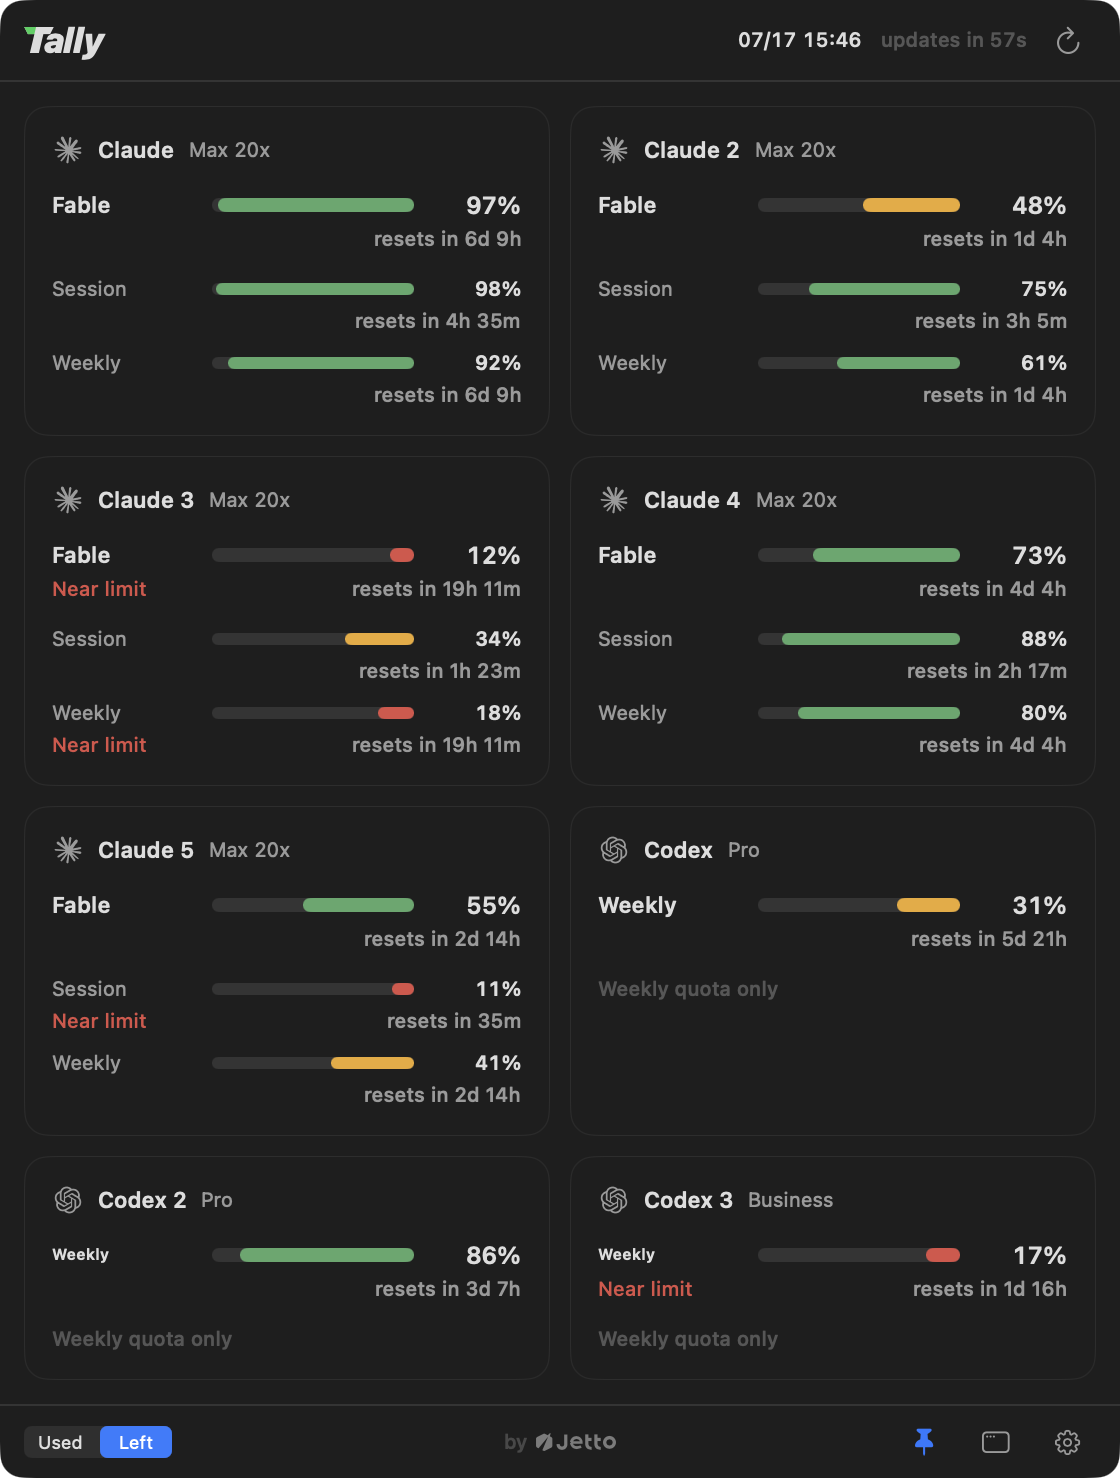
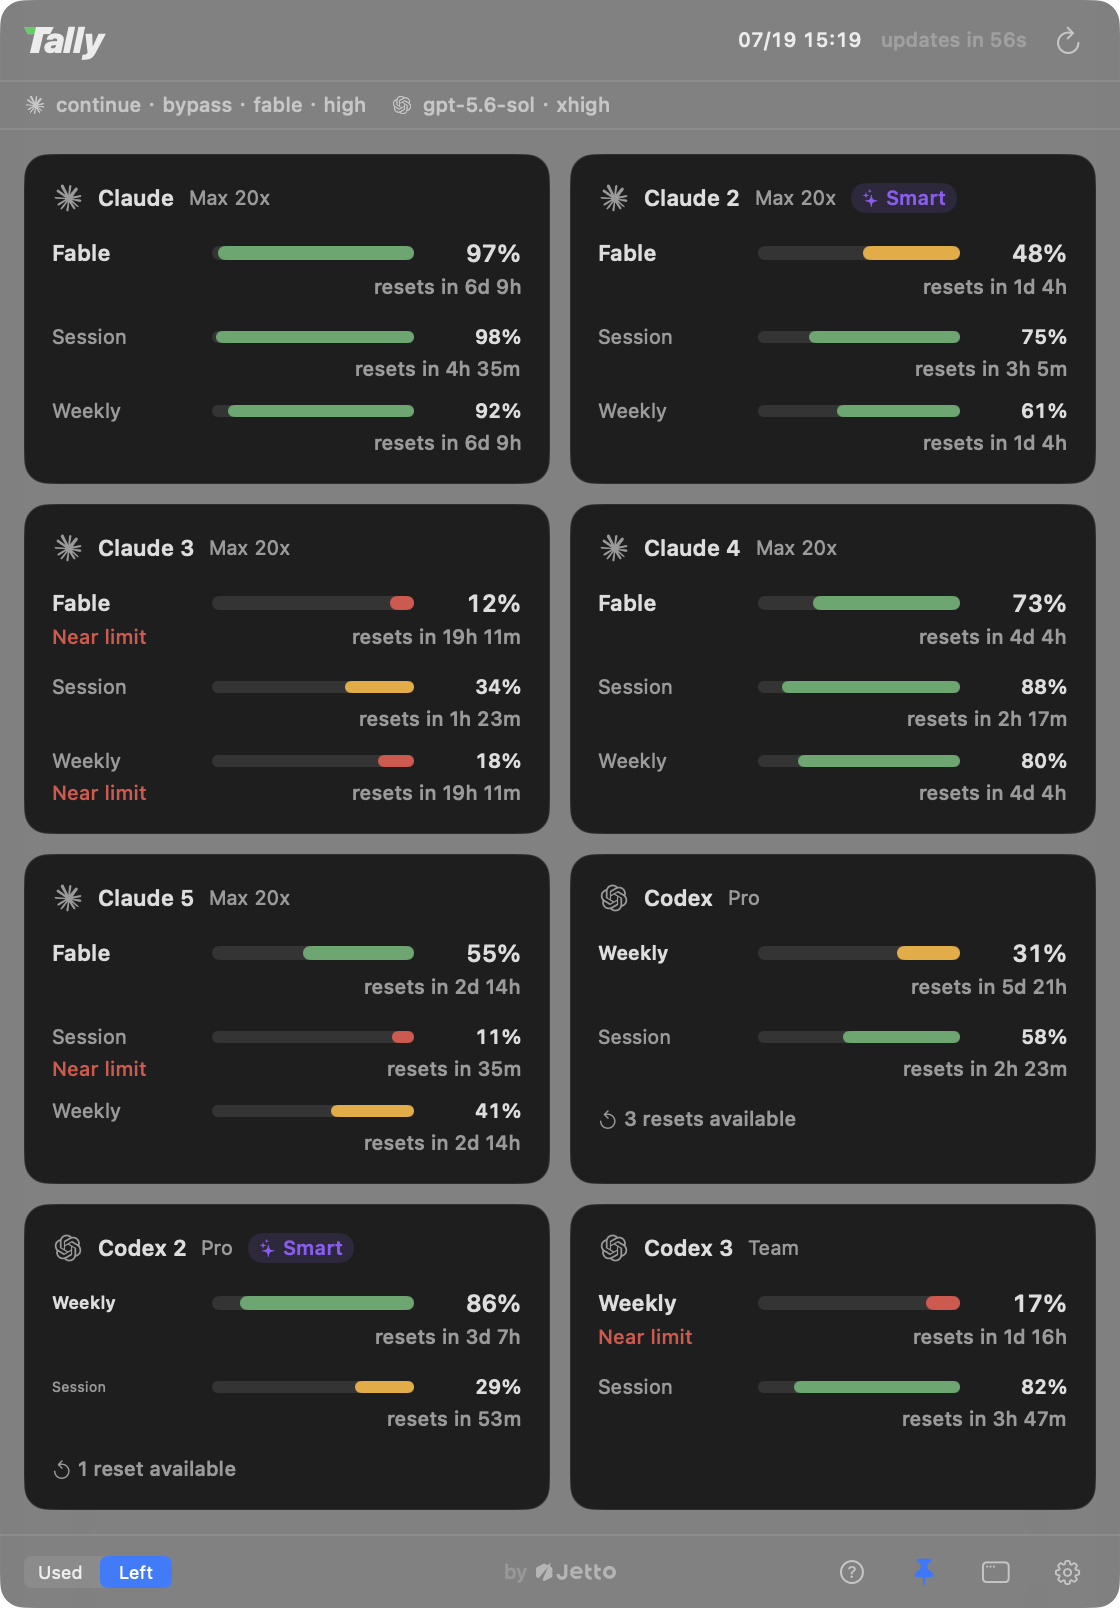
feat(codex): banked rate-limit resets on the card; richer demo; aligned toggle order
Codex reset banking (live-verified 2026-07-19): the app-server response
carries rateLimitResetCredits.availableCount, now read and shown on the
card ('3 resets available') so the escape hatches are visible before the
wall - read-only by design, redeeming stays the user's call in the
official CLI. Demo fixtures gain the codex 5h session window (real plan
shape; the window is temporarily removed server-side since 2026-07-12),
banked resets, and the corrected Team plan name; the demo now lights the
Smart badge (real pinned ids can never match fixtures) and the badge
label tightens to the mode word. The Settings meter toggle adopts the
panel footer's Used-before-Left order. New panel screenshot.

diff --git a/Tally/Core/DemoUsage.swift b/Tally/Core/DemoUsage.swift
@@ -23,9 +23,12 @@ enum DemoUsage {
                    modelResetDays: 4.2, sessionResetHours: 2.3, weeklyResetDays: 4.2, now: now),
             claude("Claude 5", plan: "Max 20x", model: 45, session: 89, weekly: 59,
                    modelResetDays: 2.6, sessionResetHours: 0.6, weeklyResetDays: 2.6, now: now),
-            codex("Codex", plan: "Pro", weekly: 69, weeklyResetDays: 5.9, now: now),
-            codex("Codex 2", plan: "Pro", weekly: 14, weeklyResetDays: 3.3, now: now),
-            codex("Codex 3", plan: "Business", weekly: 83, weeklyResetDays: 1.7, now: now),
+            codex("Codex", plan: "Pro", session: 42, weekly: 69,
+                  sessionResetHours: 2.4, weeklyResetDays: 5.9, resets: 3, now: now),
+            codex("Codex 2", plan: "Pro", session: 71, weekly: 14,
+                  sessionResetHours: 0.9, weeklyResetDays: 3.3, resets: 1, now: now),
+            codex("Codex 3", plan: "Team", session: 18, weekly: 83,
+                  sessionResetHours: 3.8, weeklyResetDays: 1.7, resets: 0, now: now),
         ]
     }
 
@@ -55,16 +58,25 @@ enum DemoUsage {
             refreshedAt: now)
     }
 
-    private static func codex(_ label: String, plan: String, weekly: Double,
-                              weeklyResetDays: Double, now: Date) -> AccountUsage {
+    /// A Codex account shaped like CodexAppServerClient's mapping: the 5h primary window plus
+    /// the weekly secondary, both with resets (some real plans report only the weekly; the demo
+    /// shows the full shape).
+    private static func codex(_ label: String, plan: String, session: Double, weekly: Double,
+                              sessionResetHours: Double, weeklyResetDays: Double, resets: Int,
+                              now: Date) -> AccountUsage {
         AccountUsage(
             id: "codex:demo-\(label)", providerID: "codex", accountLabel: label, planName: plan,
             metrics: [
+                UsageMetric(id: "session", kind: .session, label: "Session", modelName: nil,
+                            usedPercent: session, severity: .fromUsedPercent(session),
+                            resetsAt: now.addingTimeInterval(sessionResetHours * 3_600),
+                            isActive: false),
                 UsageMetric(id: "weekly_all", kind: .weeklyAll, label: "Weekly", modelName: nil,
                             usedPercent: weekly, severity: .fromUsedPercent(weekly),
                             resetsAt: now.addingTimeInterval(weeklyResetDays * 86_400),
                             isActive: false),
             ],
-            refreshedAt: now)
+            refreshedAt: now,
+            resetCreditsAvailable: resets > 0 ? resets : nil)
     }
 }

diff --git a/Tally/Views/AccountCardView.swift b/Tally/Views/AccountCardView.swift
@@ -37,7 +37,9 @@ struct AccountCardView: View {
     }
 
     private var launchMode: LaunchPolicyStore.Mode {
-        LaunchPolicyStore.shared.mode(usage.providerID)
+        // Demo fixtures always demonstrate Smart mode (the real policy's pinned ids can never
+        // match demo accounts, which would leave every marketing card badge-less).
+        DemoUsage.isActive ? .auto : LaunchPolicyStore.shared.mode(usage.providerID)
     }
 
     private var isPinnedActive: Bool {
@@ -47,7 +49,9 @@ struct AccountCardView: View {
     /// Whether auto mode would launch THIS account right now (the panel predicts the CLI).
     private var isAutoPick: Bool {
         let store = UsageStore.shared
-        let launchable = Set(store.discoveredAccounts.compactMap { $0.launchHome != nil ? $0.id : nil })
+        let launchable = DemoUsage.isActive
+            ? Set(store.accounts.map(\.id))   // fixtures are all "launchable" for the demo
+            : Set(store.discoveredAccounts.compactMap { $0.launchHome != nil ? $0.id : nil })
         return LaunchPolicyStore.shared.autoPickID(
             providerID: usage.providerID, accounts: store.accounts, launchable: launchable) == usage.id
     }
@@ -84,6 +88,18 @@ struct AccountCardView: View {
                     Text(L("Weekly quota only"))
                         .font(.caption2)
                         .foregroundStyle(.tertiary)
+                }
+                // Banked rate-limit resets (Codex reset banking): read and shown, never spent -
+                // redeeming one is the user's own economic decision, made in the official CLI.
+                if let resets = usage.resetCreditsAvailable, resets > 0 {
+                    HStack(spacing: 3) {
+                        Image(systemName: "arrow.counterclockwise")
+                            .font(.system(size: 9))
+                        Text(verbatim: "\(resets) ")
+                            + Text(L(resets == 1 ? "reset available" : "resets available"))
+                    }
+                    .font(.caption2)
+                    .foregroundStyle(.secondary)
                 }
             }
         }
@@ -188,7 +204,9 @@ struct AccountCardView: View {
     private var autoBadge: some View {
         HStack(spacing: 3) {
             Image(systemName: "sparkles").font(.system(size: 8))
-            Text(L("Smart pick")).lineLimit(1)
+            // The short mode word, not "Smart pick": the longer badge squeezed "Claude 2"
+            // into a wrapped two-line title at demo widths (2026-07-19 screenshot round).
+            Text(L("Smart")).lineLimit(1)
         }
         .fixedSize()
         .font(.caption2.weight(.semibold))

diff --git a/Tally/Providers/Codex/CodexAppServerClient.swift b/Tally/Providers/Codex/CodexAppServerClient.swift
@@ -11,12 +11,21 @@ enum CodexAppServerClient {
     struct Reading: Sendable {
         var metrics: [UsageMetric]
         var plan: String?
+        /// Reset banking (verified live 2026-07-19): `result.rateLimitResetCredits.availableCount`.
+        var resetCreditsAvailable: Int?
     }
 
     private struct RPCLine: Decodable {
         let id: Int?
         let result: Result?
-        struct Result: Decodable { let rateLimits: RateLimits? }
+        struct Result: Decodable {
+            let rateLimits: RateLimits?
+            let rateLimitResetCredits: ResetCredits?
+        }
+    }
+
+    private struct ResetCredits: Decodable {
+        let availableCount: Int?
     }
 
     private struct RateLimits: Decodable {
@@ -56,7 +65,8 @@ enum CodexAppServerClient {
                 isActive: false))
         }
         let plan = limits.planType?.trimmingCharacters(in: .whitespaces).capitalized
-        return Reading(metrics: metrics.uniquingIDs(), plan: (plan?.isEmpty == false) ? plan : nil)
+        return Reading(metrics: metrics.uniquingIDs(), plan: (plan?.isEmpty == false) ? plan : nil,
+                       resetCreditsAvailable: line.result?.rateLimitResetCredits?.availableCount)
     }
 
     /// Blocking JSON-RPC exchange (runs on a utility queue): the raw response line for request 2.

diff --git a/Tally/Views/SettingsView.swift b/Tally/Views/SettingsView.swift
@@ -142,9 +142,11 @@ struct SettingsView: View {
         HStack {
             Text(L("Meters show")).font(.subheadline)
             Spacer()
+            // Used before Left, matching the panel footer's toggle (which itself mirrors the
+            // meters' geometry: the used portion fills from the track's left edge).
             Picker("", selection: $settings.displayMode) {
-                Text(L("Left")).tag(DisplayMode.remaining)
                 Text(L("Used")).tag(DisplayMode.used)
+                Text(L("Left")).tag(DisplayMode.remaining)
             }
             .pickerStyle(.segmented)
             .labelsHidden()

diff --git a/Tally/Providers/Codex/CodexProvider.swift b/Tally/Providers/Codex/CodexProvider.swift
@@ -26,7 +26,8 @@ struct CodexProvider: UsageProvider {
         return AccountUsage(
             id: account.id, providerID: id, accountLabel: account.label,
             planName: reading.plan, metrics: reading.metrics,
-            refreshedAt: Date(), error: nil
+            refreshedAt: Date(), error: nil,
+            resetCreditsAvailable: reading.resetCreditsAvailable
         )
     }
 }

diff --git a/Tally/Providers/ProviderModels.swift b/Tally/Providers/ProviderModels.swift
@@ -92,6 +92,9 @@ struct AccountUsage: Identifiable, Hashable, Sendable {
     /// True when these metrics are the last-good snapshot shown because the latest refresh failed.
     /// `error` then carries the reason (for a tooltip) while the numbers stay visible.
     var isStale: Bool = false
+    /// Codex reset banking: how many banked rate-limit resets the account can still redeem
+    /// (nil = the provider doesn't report the concept).
+    var resetCreditsAvailable: Int?
 
     /// The single metric to feature at a glance: the binding model-scoped window if the provider
     /// flags one, else any model-scoped window, else the unified weekly, else session. This is the